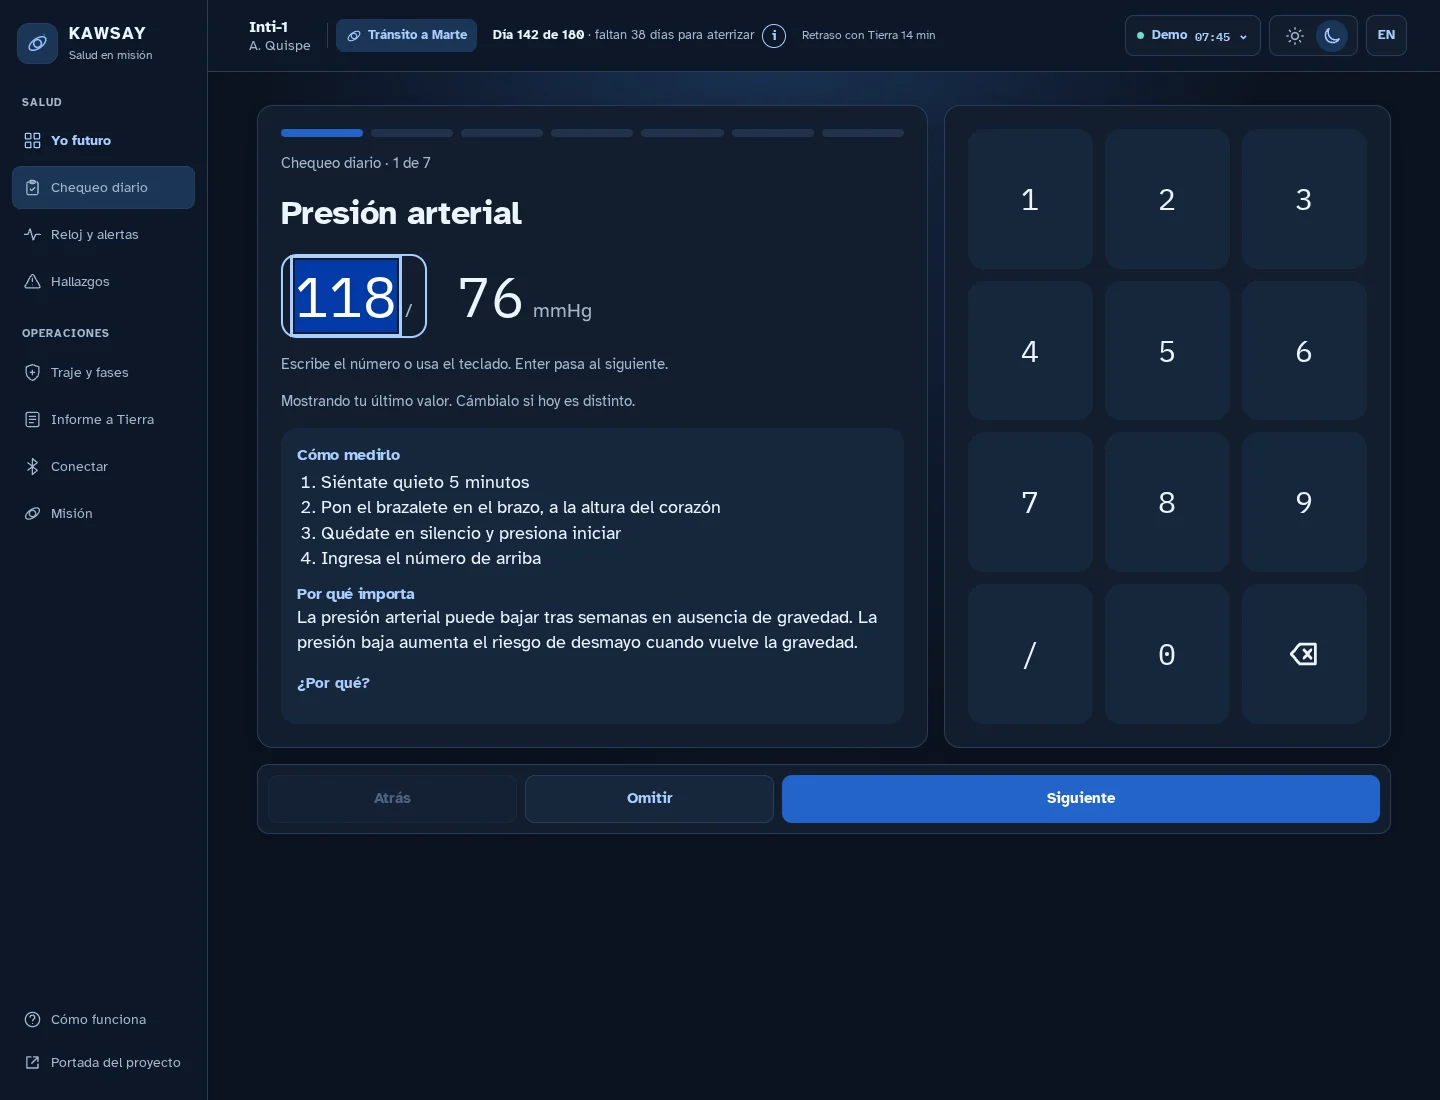
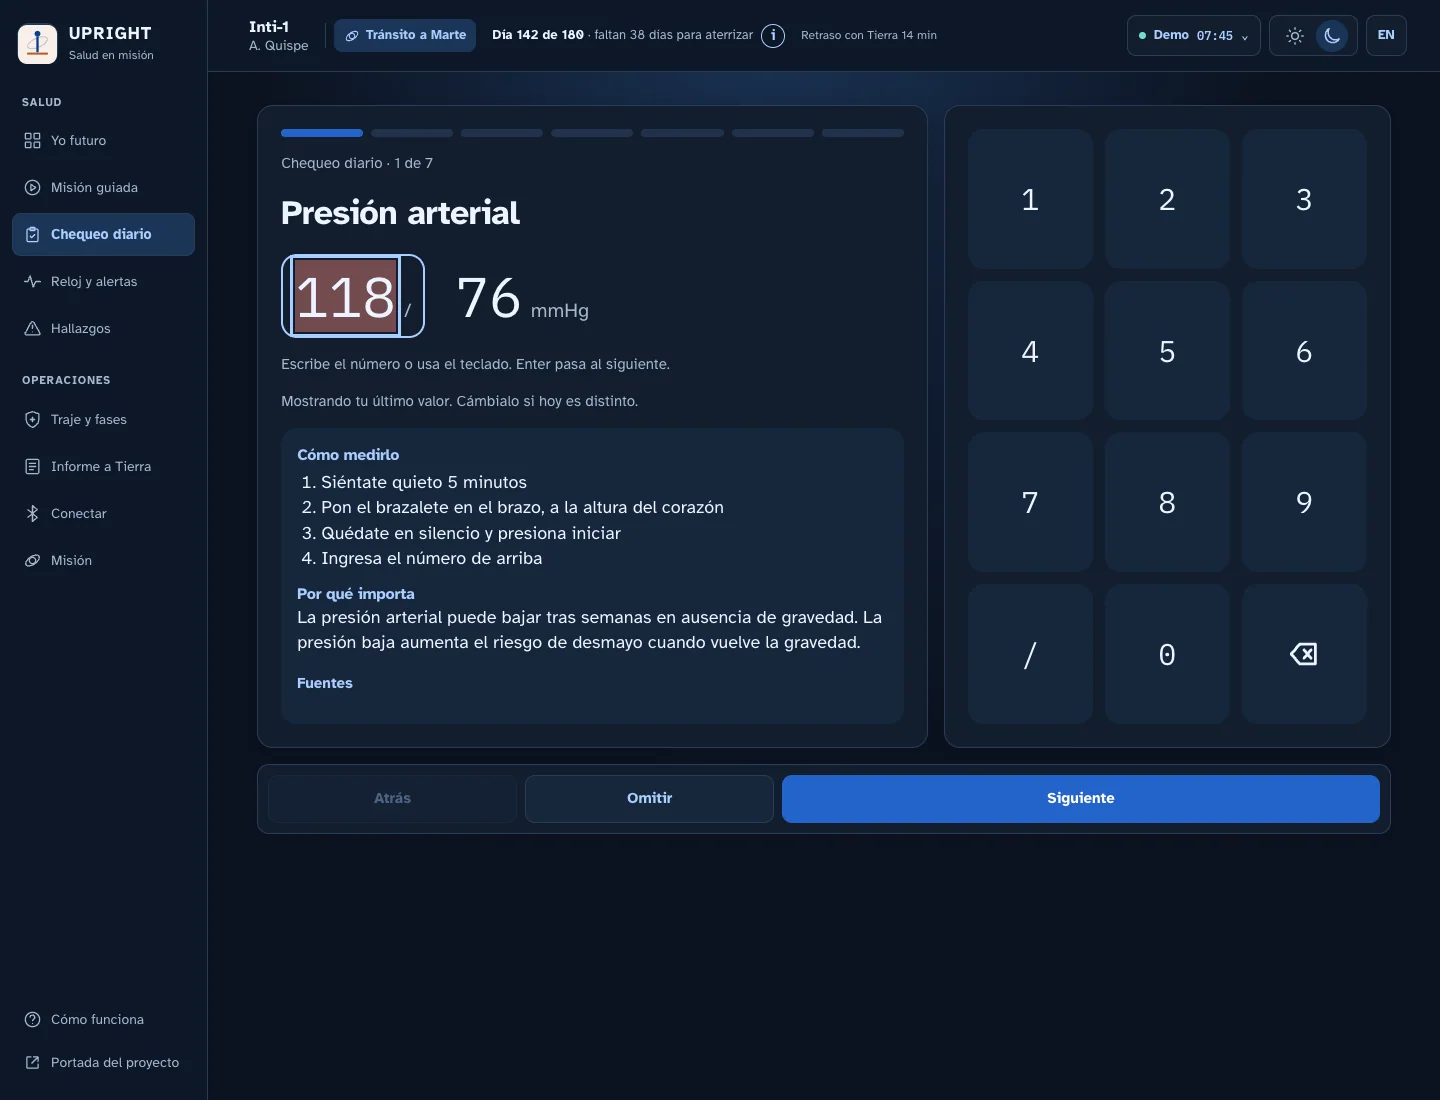
Refresh demo tour captures for UPRIGHT

diff --git a/docs/AI_USAGE.md b/docs/AI_USAGE.md
@@ -33,4 +33,4 @@ Log every use as you go. One line each.
 | Sun 15:59 | Mission guide | Codex (OpenAI) | Implemented bilingual guided mission, hourly cabin CO₂ evidence, and data provenance for the 3D comparison | `src/features/mission-guide/`, `src/domain/cabinCo2.ts`, `src/features/future-self/` |
 | Sun 16:25 | Mission guide | Codex (OpenAI) | Integrated the reviewed guided mission with editable simulated symptom and cabin readings, evidence comparison, and an updated Earth brief | `src/features/mission-guide/`, `src/app/workspace.css`, `content/mission-guide.json` |
 | 15 Nov | P1 | Claude Code (Claude Opus 5.5) | Astronaut/NASA review of the app; explained "Why?" (rules-based explanation, EN/ES copy draft), optional local-AI rewrite with a safety check, read aloud, tests | `docs/07-evaluacion-astronauta-nasa.md`, `src/app/why/`, `src/app/ai/`, `src/components/WhyPanel.tsx`, `src/components/ui.tsx`, `content/why.json`, `src/features/check-in/`, `src/features/finding/`, `src/features/watch/Alarm.tsx`, `vite.config.ts` |
-| 15 Nov | P1 | Claude Code (Big Pickle) | Naming and logo pass for the rebrand: shortlist (Upright, Landfall, Pacha), choice of UPRIGHT and “Land on your feet.”, vector mark, and the name/logo replacement across app, landing, metadata and docs | `design/brand/`, `public/upright-mark.svg`, `public/favicon.svg`, `content/`, `src/app/WorkspaceNav.tsx`, `src/landing/Landing.tsx`, `README.md` |
+| 15 Nov | P1 | Claude Code (Big Pickle) | Naming and logo pass for the rebrand: shortlist (Upright, Landfall, Pacha), choice of UPRIGHT and “Land on your feet.”, vector mark, and the name/logo replacement across app, landing, metadata and docs; recaptured the bilingual demo tour in Chromium so the screenshots show the new brand | `design/brand/`, `public/upright-mark.svg`, `public/favicon.svg`, `public/demo-tour/`, `content/`, `src/app/WorkspaceNav.tsx`, `src/landing/Landing.tsx`, `README.md` |
